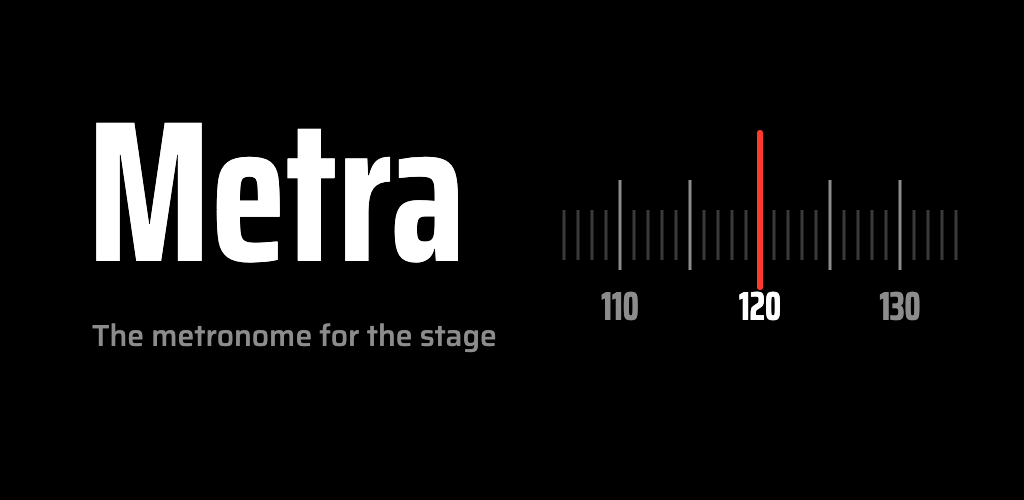
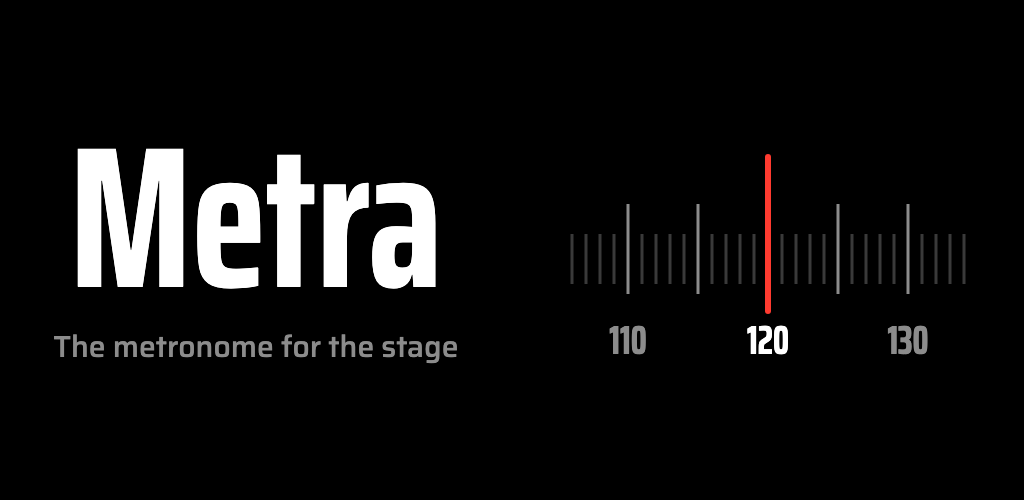
store: centre the feature graphic's title, tagline and ruler

Changed region(s): [[0.0625, 0.24, 0.4688, 0.6], [0.5312, 0.27, 0.9688, 0.72], [0.0312, 0.63, 0.5, 0.72]]

diff --git a/store/feature-graphic.html b/store/feature-graphic.html
@@ -4,15 +4,16 @@
 @font-face { font-family: SEC; src: url('../assets/fonts/SairaExtraCondensed-Bold.ttf'); font-weight: 700; }
 @font-face { font-family: Saira; src: url('../assets/fonts/Saira-Medium.ttf'); font-weight: 500; }
 html, body { margin: 0; width: 1024px; height: 500px; background: #000; overflow: hidden; }
-.wrap { position: relative; width: 1024px; height: 500px; }
-.title { position: absolute; left: 88px; top: 92px; font-family: SEC; font-weight: 700; font-size: 200px; line-height: 1; color: #fff; letter-spacing: 1px; }
-.tag { position: absolute; left: 92px; top: 312px; font-family: Saira; font-size: 30px; color: #8C8C8C; }
-svg { position: absolute; left: 560px; top: 70px; }
+/* Two equal halves; each centres its content both ways. */
+.wrap { display: flex; width: 1024px; height: 500px; }
+.half { flex: 1; display: flex; flex-direction: column; align-items: center; justify-content: center; }
+.title { font-family: SEC; font-weight: 700; font-size: 200px; line-height: 0.8; color: #fff; }
+svg { margin-top: 38px; }
+.tag { margin-top: 34px; font-family: Saira; font-size: 30px; line-height: 1; color: #8C8C8C; }
 </style></head>
 <body><div class="wrap">
-<div class="title">Metra</div>
-<div class="tag">The metronome for the stage</div>
-<svg width="400" height="360" viewBox="0 0 400 360" id="ruler"></svg>
+<div class="half"><div class="title">Metra</div><div class="tag">The metronome for the stage</div></div>
+<div class="half"><svg width="400" height="230" viewBox="0 0 400 230" id="ruler"></svg></div>
 </div>
 <script>
 const s = document.getElementById('ruler'), ns = 'http://www.w3.org/2000/svg';
@@ -22,12 +23,12 @@ const mid = 200, px = 14;
 for (let b = 106; b <= 134; b++) {
   const x = mid + (b - 120) * px;
   const major = b % 5 === 0;
-  add('rect', { x: x - 1.5, y: major ? 110 : 140, width: 3, height: major ? 90 : 50, fill: major ? '#8C8C8C' : '#3A3A3A' });
+  add('rect', { x: x - 1.5, y: major ? 50 : 80, width: 3, height: major ? 90 : 50, fill: major ? '#8C8C8C' : '#3A3A3A' });
   if (b % 10 === 0) {
-    const t = add('text', { x, y: 250, 'text-anchor': 'middle', 'font-family': 'SEC', 'font-weight': 700, 'font-size': 40, fill: b === 120 ? '#fff' : '#8C8C8C' });
+    const t = add('text', { x, y: 200, 'text-anchor': 'middle', 'font-family': 'SEC', 'font-weight': 700, 'font-size': 40, fill: b === 120 ? '#fff' : '#8C8C8C' });
     t.textContent = b;
   }
 }
-add('rect', { x: mid - 3, y: 60, width: 6, height: 160, rx: 3, fill: '#FF3B30' });
+add('rect', { x: mid - 3, y: 0, width: 6, height: 160, rx: 3, fill: '#FF3B30' });
 </script>
 </body></html>
